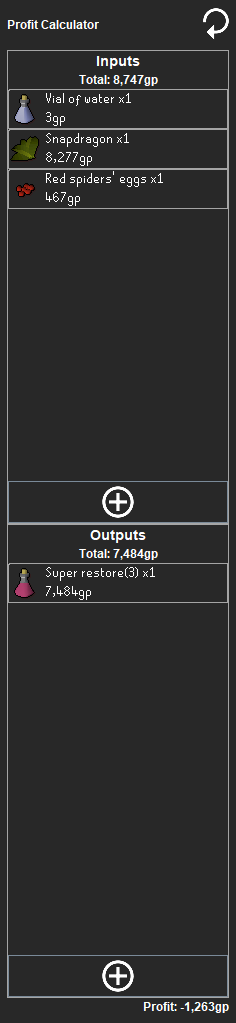
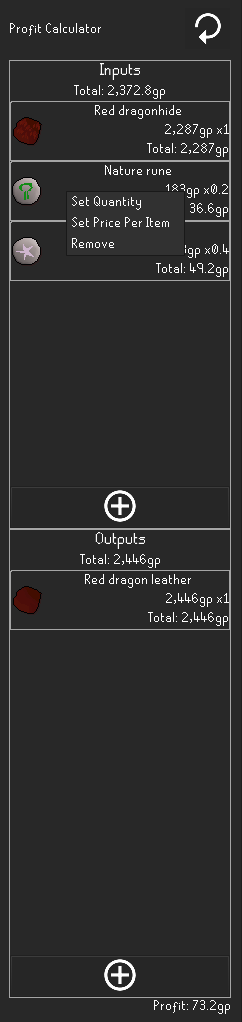
Update README to show new decimal-value features

diff --git a/README.md b/README.md
@@ -1,7 +1,8 @@
 # Profit Calculator
 
 The Profit Calculator plugin aims to assist in calculating profits from processing items.
-It operates within a side panel, for which you can enter the inputs and outputs of your operation.
-The plugin will use the grand exchange averages to compute the profit.
+It operates within a side panel, in which you can enter the inputs and outputs of your operation.
+The plugin will use the grand exchange averages as default values,
+but you can provide any value you like by right clicking an entry.
 
 ![](demo.png)
